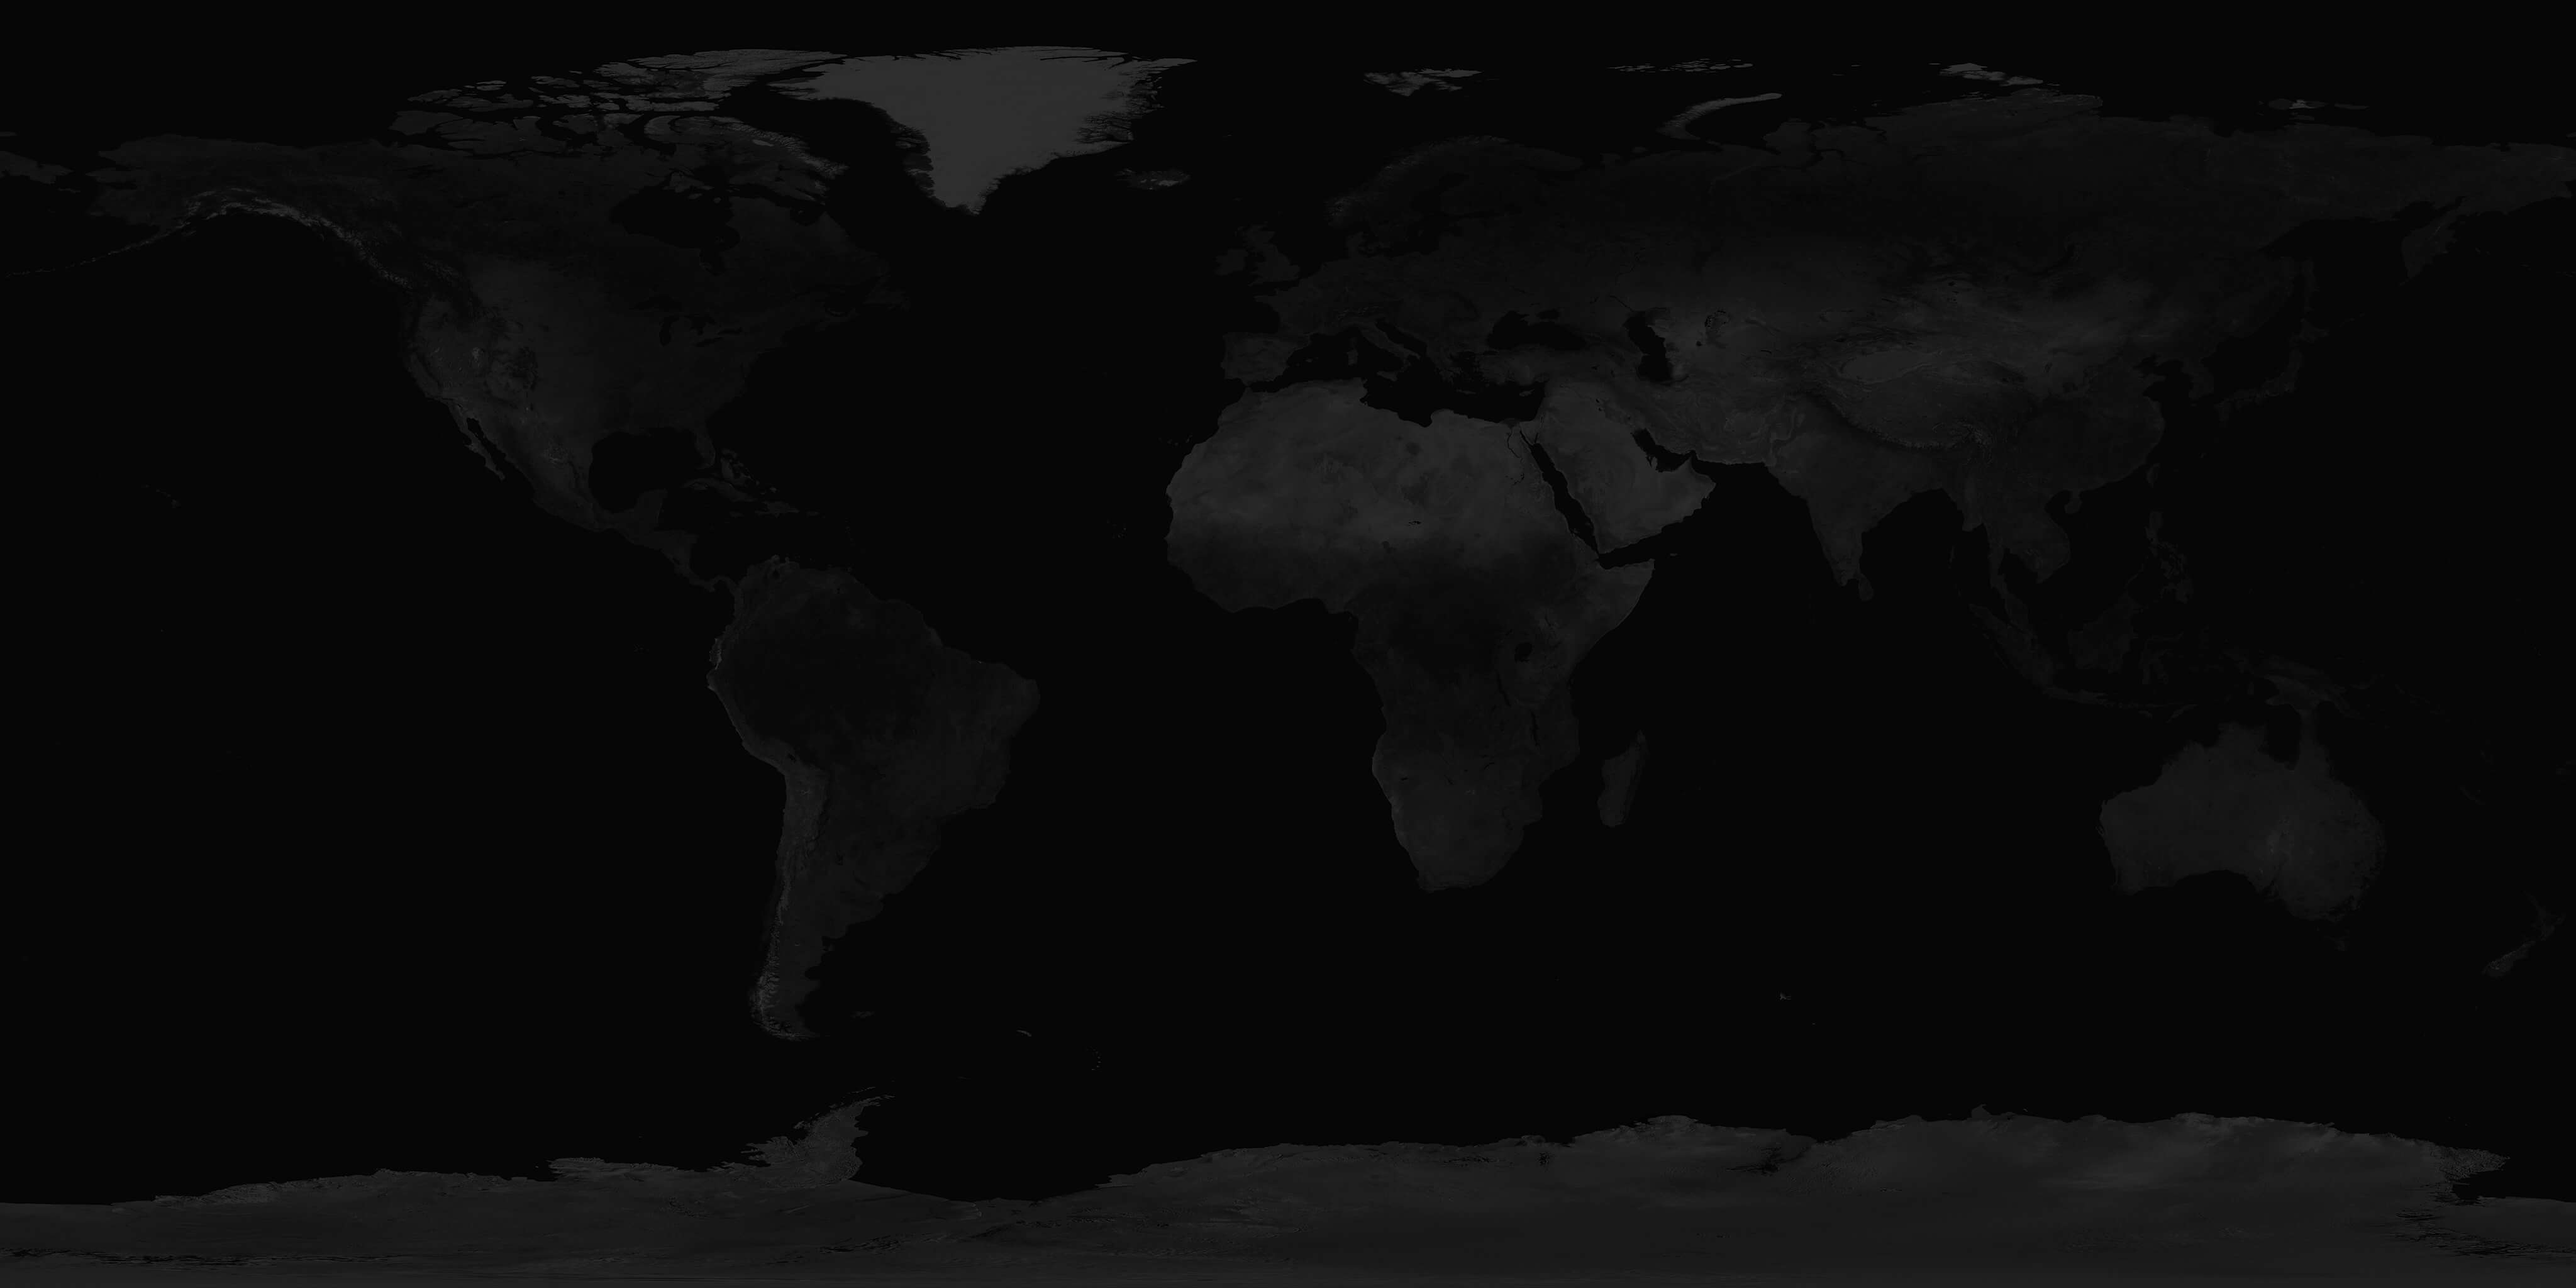
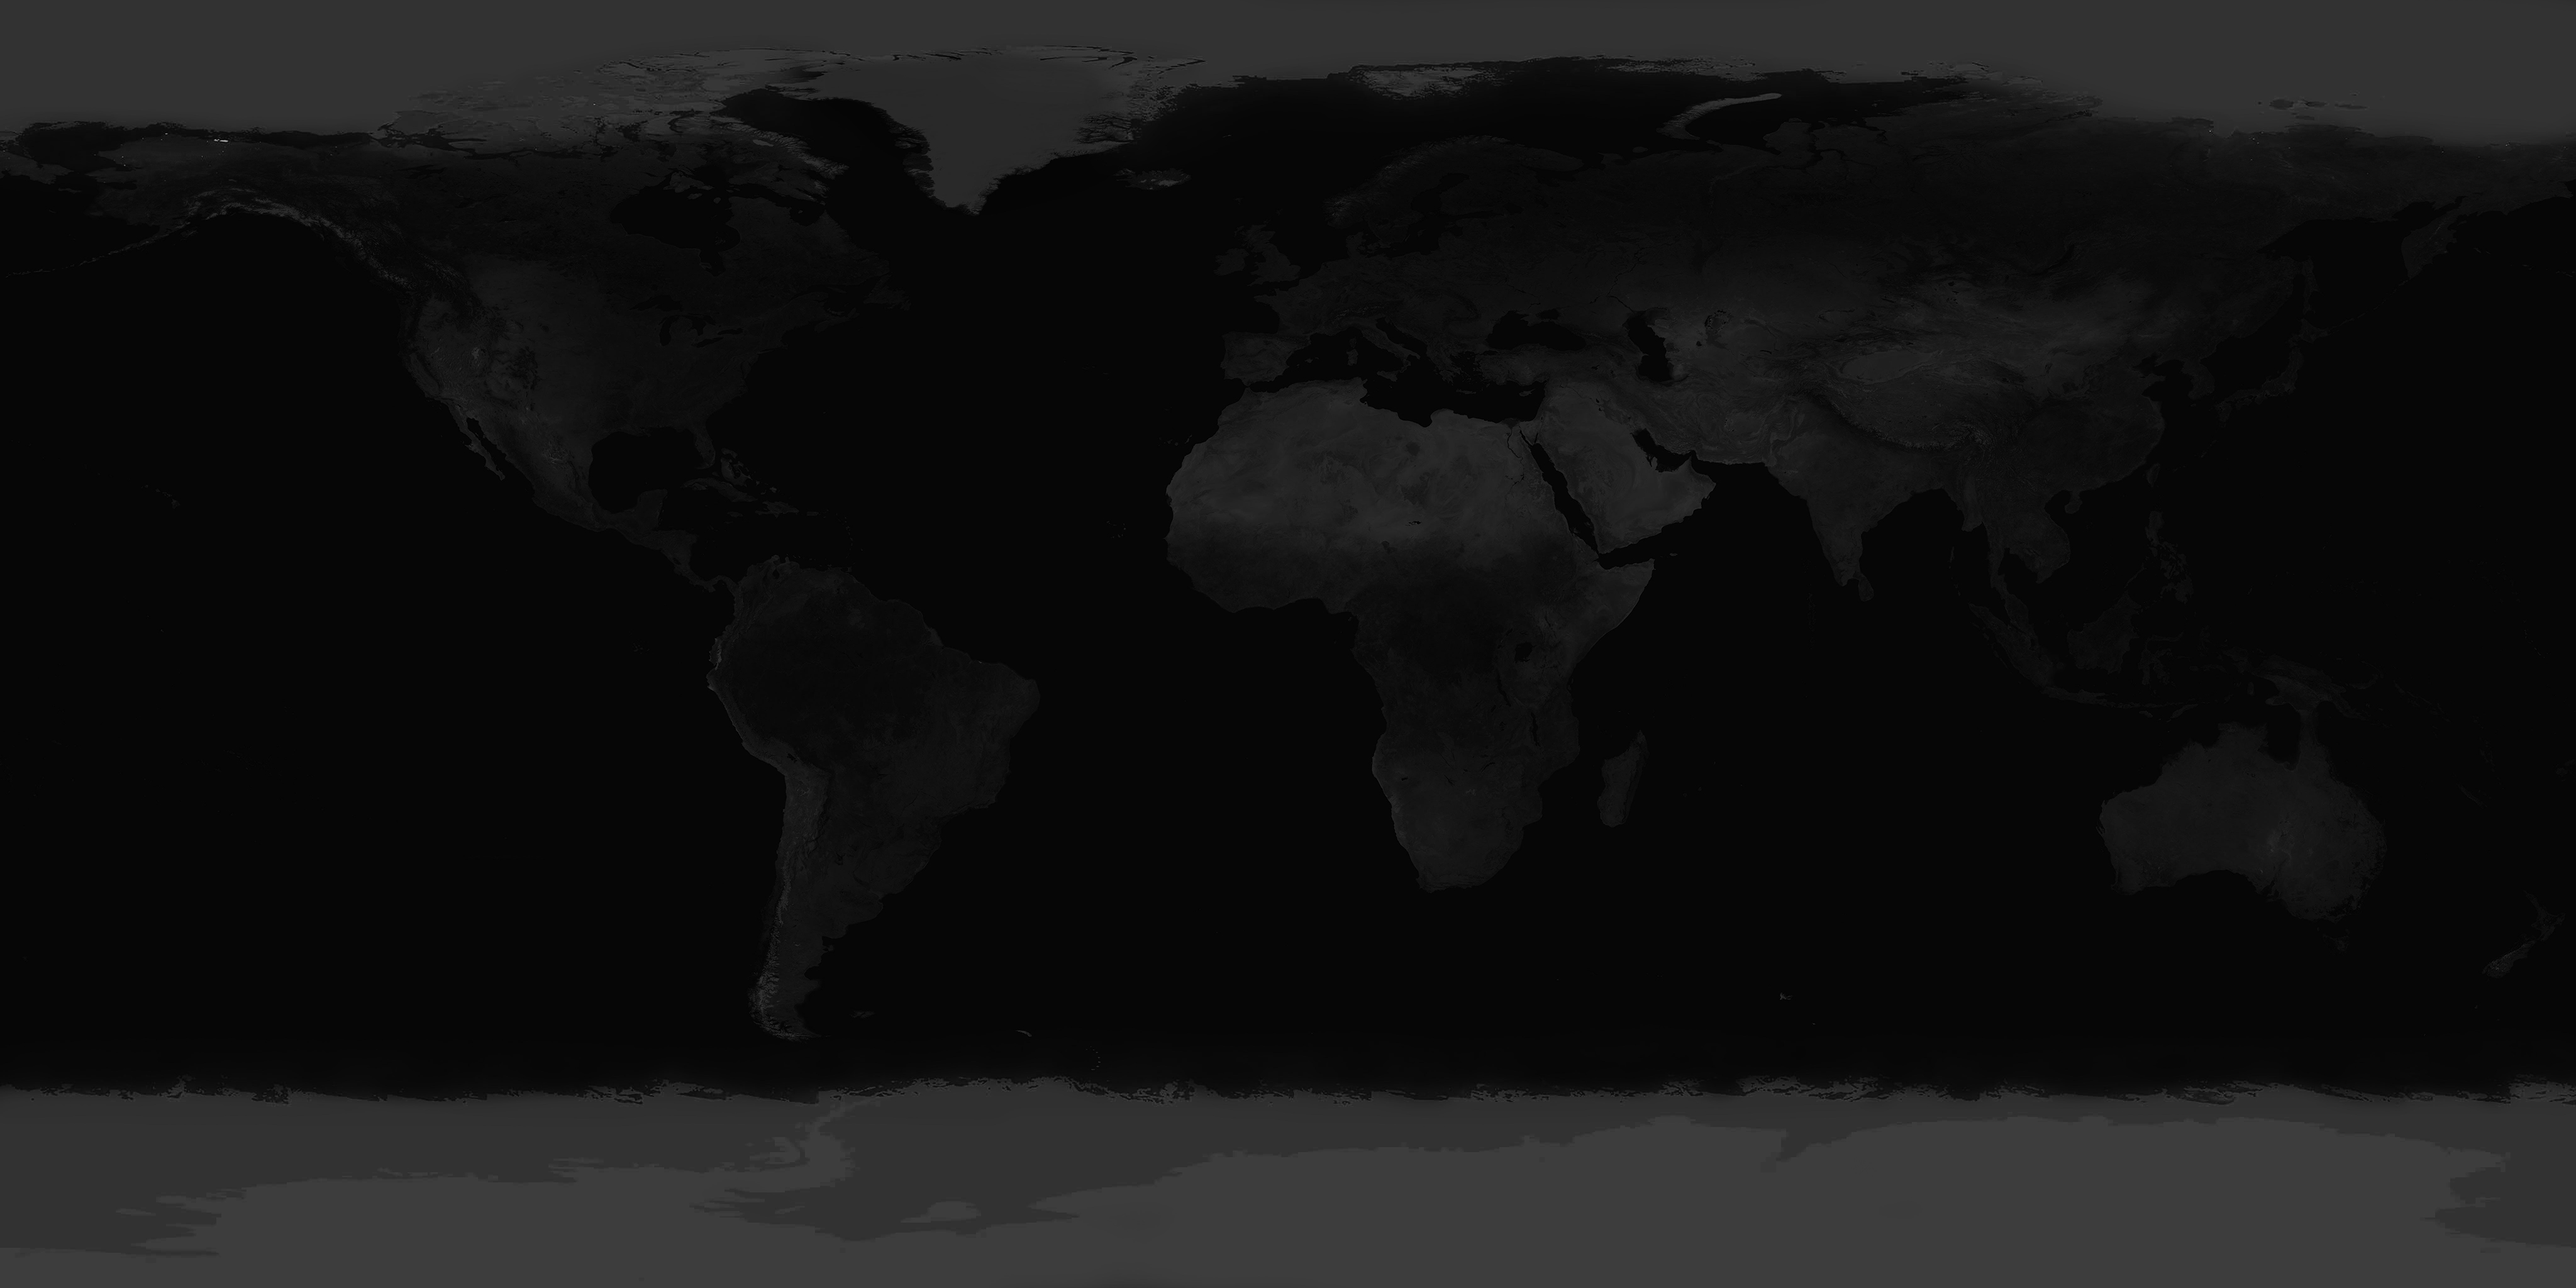
postprocessing changes + stars changes + texture update

Changed region(s): [[0.0, 0.8125, 1.0, 1.0], [0.0, 0.0, 1.0, 0.125]]

diff --git a/source/js/main.js b/source/js/main.js
@@ -9,7 +9,7 @@ var config = {
   earthRadius:8,
   maxAnisotropy:1,
 
-  dirBlurFactor:24,
+  dirBlurFactor:16,
   clearColor:'#000000'
 };
 
@@ -101,63 +101,50 @@ Globe.prototype = {
 
   initPostProcessing:function() {
     var renderPass = new THREE.RenderPass(this.root.scene, this.root.camera);
-    var bloomPass = new THREE.BloomPass(1.5, 25, 4.0, 256);
     var hBlurPass = new THREE.ShaderPass(THREE.HorizontalBlurShader);
-    var fxaaPass = new THREE.ShaderPass(THREE.FXAAShader);
-    var vignettePass = new THREE.ShaderPass(THREE.VignetteShader);
+    var vBlurPass = new THREE.ShaderPass(THREE.VerticalBlurShader);
+    var copyPass = new THREE.ShaderPass(THREE.CopyShader);
 
     hBlurPass.uniforms.h.value = 1.0 / window.innerWidth;
-
-    fxaaPass.uniforms.resolution.value.x = 1.0 / window.innerWidth;
-    fxaaPass.uniforms.resolution.value.y = 1.0 / window.innerHeight;
-    fxaaPass.enabled = false;
-
-    vignettePass.uniforms.offset.value = 0.0;
-    vignettePass.uniforms.darkness.value = 1.25;
-    vignettePass.uniforms.centerOffset.value.y = -0.225;
-
-    bloomPass.enabled = false;
-
-    this.vignettePass = vignettePass;
+    vBlurPass.uniforms.v.value = 1.0 / window.innerHeight;
 
     this.root.initPostProcessing([
       renderPass,
       hBlurPass,
-      bloomPass,
-      fxaaPass,
-      vignettePass
+      vBlurPass,
+      copyPass
     ]);
 
     this.root.addUpdateCallback(_.bind(function() {
       var rs = this.earthRotationController.rotationSpeed;
       var v = Math.abs(rs.y) * config.dirBlurFactor;
 
-      if (v >= 1.0) {
+      if (v >= 0.1) {
         hBlurPass.enabled = true;
+        vBlurPass.enabled = true;
+        copyPass.renderToScreen = false;
+        vBlurPass.renderToScreen = true;
+
         hBlurPass.uniforms.strength.value = v;
+        vBlurPass.uniforms.strength.value = v * 0.25;
       }
       else {
         hBlurPass.enabled = false;
+        vBlurPass.enabled = false;
+        copyPass.renderToScreen = true;
+        vBlurPass.renderToScreen = false;
       }
-
     }, this));
 
     this.root.addResizeCallback(function() {
       hBlurPass.uniforms.h.value = 1.0 / window.innerWidth;
-      fxaaPass.uniforms.resolution.value.x = 1.0 / window.innerWidth;
-      fxaaPass.uniforms.resolution.value.y = 1.0 / window.innerHeight;
+      vBlurPass.uniforms.v.value = 1.0 / window.innerHeight;
     });
 
     // DAT.GUI
 
     var folder = this.gui.addFolder('postprocessing');
     folder.add(config, 'dirBlurFactor').name('motion blur factor');
-    folder.add(vignettePass.uniforms.offset, 'value').name('vignette offset');
-    folder.add(vignettePass.uniforms.darkness, 'value').name('vignette darkness');
-    folder.add(vignettePass.uniforms.centerOffset.value, 'y').name('vignette center offset');
-    folder.add(bloomPass.copyUniforms.opacity, 'value').name('bloom strength');
-    folder.add(fxaaPass, 'enabled').name('enable fxaa');
-    folder.add(bloomPass, 'enabled').name('enable bloom');
   },
 
   processMarkerPositions:function() {
@@ -290,13 +277,12 @@ Globe.prototype = {
 
     var mat = new THREE.Matrix4();
     var scl = 0.5;
-    mat.multiply(new THREE.Matrix4().makeTranslation(0.5, 0.5, 0));
     mat.multiply(new THREE.Matrix4().makeScale(scl, scl, scl));
 
     prefabGeometry.applyMatrix(mat);
+    prefabGeometry.center();
 
-    var starSystem = new StarAnimationSystem(prefabGeometry, 80000, 400, 1400);
-    //starSystem.material.emissive.set(config.clearColor);
+    var starSystem = new StarAnimationSystem(prefabGeometry, 40000, 400, 1400);
     this.root.addTo(starSystem, 'earth', 'stars');
 
     var earthRotationController = this.earthRotationController;
@@ -304,32 +290,12 @@ Globe.prototype = {
     this.root.addUpdateCallback(function() {
       starSystem.update();
       starSystem.rotation.y -= earthRotationController.rotationSpeed.y * 1.25;
-      //console.log(earthRotationController.rotationSpeed);
     });
-
-
-    //var l = new THREE.DirectionalLight();
-    //l.position.set(0, 0, 1);
-    //l.
-
-    //var starsBG = new THREE.Mesh(
-    //  new THREE.SphereGeometry(1400, 200, 200, 0, Math.PI * 2, Math.PI * 0.3, Math.PI * 0.4),
-    //  //new THREE.SphereGeometry(1500, 200, 200),
-    //  new THREE.MeshBasicMaterial({
-    //    side: THREE.BackSide,
-    //    map: this.loader.get('stars')
-    //  })
-    //);
-    //
-    //this.root.addTo(starsBG, 'stars');
 
     // DAT.GUI
 
     var folder = this.gui.addFolder('stars');
     utils.createColorController(folder, starSystem.material, 'color', 'star color');
-    utils.createColorController(folder, starSystem.material, 'emissive', 'star emissive');
-    utils.createColorController(folder, starSystem.material, 'specular', 'star specular');
-    folder.add(starSystem.material, 'shininess').name('specular focus');
   },
 
   initAsteroids:function() {
@@ -443,7 +409,6 @@ Globe.prototype = {
 
   createIntroAnimation:function() {
     var rotationController = this.earthRotationController;
-    var vignettePass = this.vignettePass;
     var preloader = document.querySelector('#preloader');
     var eventDispatcher = this.eventDispatcher;
 
@@ -464,7 +429,6 @@ Globe.prototype = {
 
     tl.add(this.createCameraAnimation(11), 0.0);
     tl.add(this.createMarkersAnimation(10), 1.0);
-    tl.from(vignettePass.uniforms.offset, 11, {value:0}, 0.0);
 
     tl.add(function() {
       rotationController.enabled = true;

diff --git a/source/js/objects/StarAnimationSystem.js b/source/js/objects/StarAnimationSystem.js
@@ -6,17 +6,16 @@ function StarAnimationSystem(prefabGeometry, prefabCount, clear, spread) {
 
   // position
   var aPosition = bufferGeometry.createAttribute('aPosition', 3);
-  var position = new THREE.Vector3();
+  var position, radius;
 
   for (i = 0, offset = 0; i < prefabCount; i++) {
-    //utils.randomSpherical(clear, spread, position);
-
-    position = utils.fibSpherePoint(i, prefabCount, THREE.Math.randFloat(clear, spread));
+    position = utils.spherePointEven();
+    radius = THREE.Math.randFloat(clear, spread);
 
     for (j = 0; j < prefabVertexCount; j++) {
-      aPosition.array[offset  ] = position.x;
-      aPosition.array[offset+1] = position.y;
-      aPosition.array[offset+2] = position.z;
+      aPosition.array[offset  ] = position.x * radius;
+      aPosition.array[offset+1] = position.y * radius;
+      aPosition.array[offset+2] = position.z * radius;
 
       offset += 3;
     }
@@ -33,7 +32,7 @@ function StarAnimationSystem(prefabGeometry, prefabCount, clear, spread) {
     axis.z = THREE.Math.randFloatSpread(2);
     axis.normalize();
 
-    rotationSpeed = THREE.Math.randFloat(0.5, 1.5);
+    rotationSpeed = THREE.Math.randFloat(2.0, 3.0);
 
     for (j = 0; j < prefabVertexCount; j++) {
       aAxisSpeed.array[offset  ] = axis.x;
@@ -45,7 +44,7 @@ function StarAnimationSystem(prefabGeometry, prefabCount, clear, spread) {
     }
   }
 
-  var material = new THREE.BAS.PhongAnimationMaterial({
+  var material = new THREE.BAS.BasicAnimationMaterial({
       shading: THREE.FlatShading,
       side: THREE.DoubleSide,
       uniforms: {
@@ -69,10 +68,7 @@ function StarAnimationSystem(prefabGeometry, prefabCount, clear, spread) {
       ]
     },
     {
-      diffuse: 0xffffff,
-      specular: 0xffffff,
-      emissive: 0x333333,
-      shininess: 40
+      diffuse: 0xffffff
     });
 
   THREE.Mesh.call(this, bufferGeometry, material);

diff --git a/source/js/utils.js b/source/js/utils.js
@@ -66,9 +66,23 @@ var utils = {
       return vec;
     }
   })(),
+  spherePointEven: (function() {
+    var vec = {};
 
+    return function (){
+      var u = Math.random();
+      var v = Math.random();
 
+      var theta = 2 * Math.PI * u;
+      var phi = Math.acos(2 * v - 1);
 
+      vec.x = (Math.sin(phi) * Math.cos(theta));
+      vec.y = (Math.sin(phi) * Math.sin(theta));
+      vec.z = (Math.cos(phi));
+
+      return vec;
+    }
+  })(),
 
   // uses TweenMax
   ease:function(ease, t, b, c, d) {
